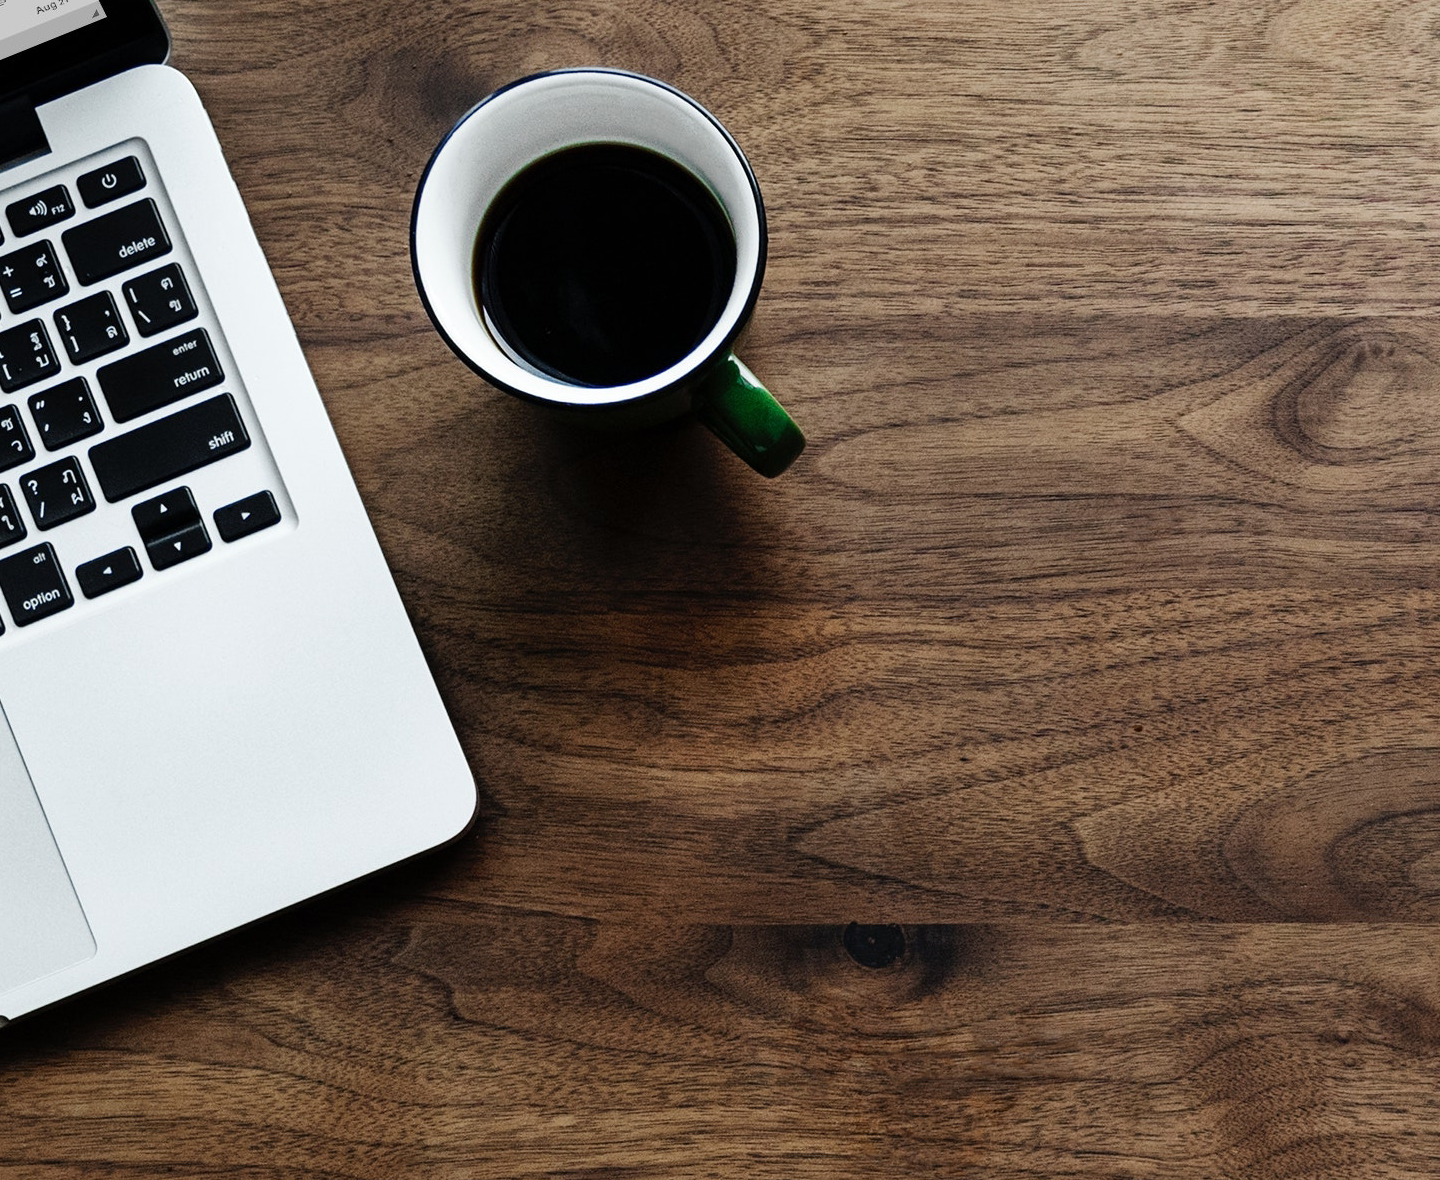
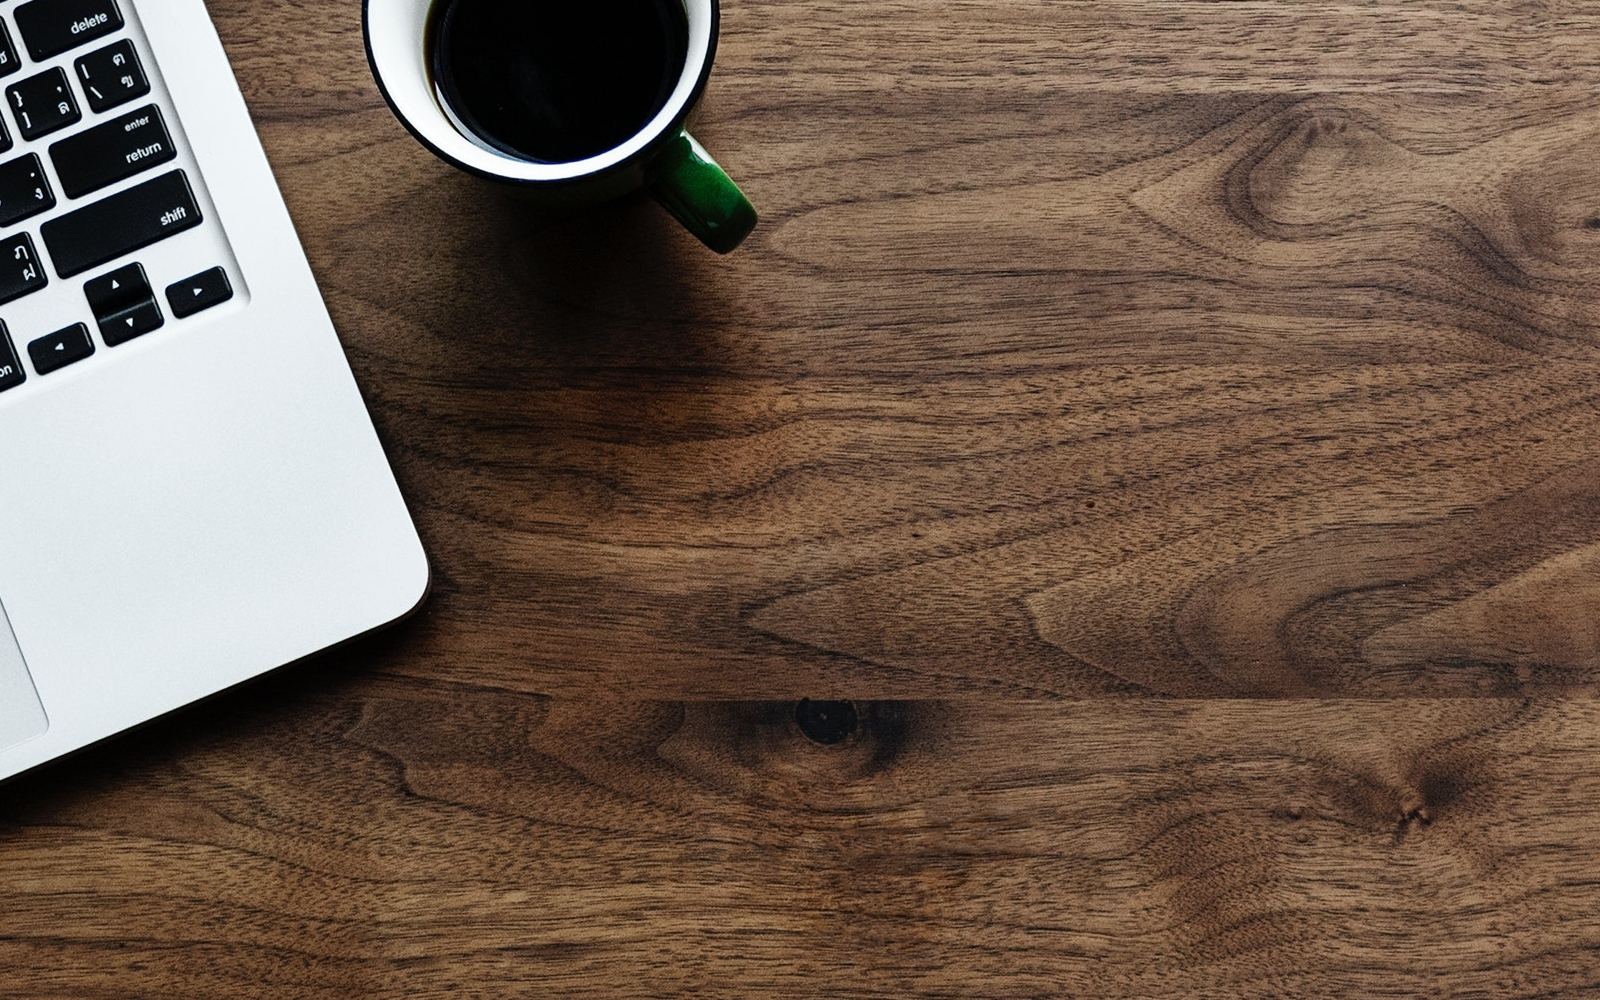
style title for desktop and reposition nav menu

diff --git a/src/sass/blocks/title/_title.scss b/src/sass/blocks/title/_title.scss
@@ -47,6 +47,7 @@
   }
 }
 
+// Tablet screen
 @include screen-size($tablet-screen) {
   .title {
     @include img-retina("../img/fed-background-tablet@1x.jpg", "../img/fed-background-tablet@2x.jpg");
@@ -58,6 +59,7 @@
   }
 }
 
+// Desktop screen
 @include screen-size($desktop-screen) {
   .title {
     @include img-retina("../img/fed-background-desktop@1x.jpg", "../img/fed-background-desktop@2x.jpg");
@@ -65,12 +67,15 @@
   .title__inner {
     padding-top: 20rem;
     padding-bottom: 20rem;
+    padding-left: 30%;
+    padding-right: 30%;
   }
 
   .title__header {
-    font-size: 5rem;
+    font-size: 4.5rem;
     font-weight: $font-regular;
     line-height: 5.6rem;
+
     &:before {
       margin-bottom: 2rem;
     }
@@ -83,7 +88,7 @@
 
   .title__button {
     width: 18.5rem;
-    height: 6rem;
+    height: 5rem;
     font-size: $font-size-five;
     line-height: $font-size-three;
   }

diff --git a/src/sass/blocks/nav-menu/_nav-menu.scss b/src/sass/blocks/nav-menu/_nav-menu.scss
@@ -110,7 +110,7 @@
 @include screen-size($desktop-screen) {
   .nav-menu {
     position: absolute;
-    top: 60.4rem;
+    bottom: 0;
     height: 6rem;
     width: 100%;
   }
@@ -128,6 +128,5 @@
   
   .nav-menu__link {
     line-height: 6rem;
-
   }
 }

diff --git a/src/sass/styles.scss b/src/sass/styles.scss
@@ -7,6 +7,7 @@
 @import "typography/typography";
 @import "scaffolding/scaffolding";
 // elements
+@import "blocks/header-wrapper/header-wrapper";
 @import "blocks/nav-menu/nav-menu";
 @import "blocks/title/title";
 @import "blocks/summary/summary";

diff --git a/src/sass/blocks/header-wrapper/_header-wrapper.scss b/src/sass/blocks/header-wrapper/_header-wrapper.scss
@@ -1,0 +1,3 @@
+.header-wrapper {
+  position: relative;
+}
